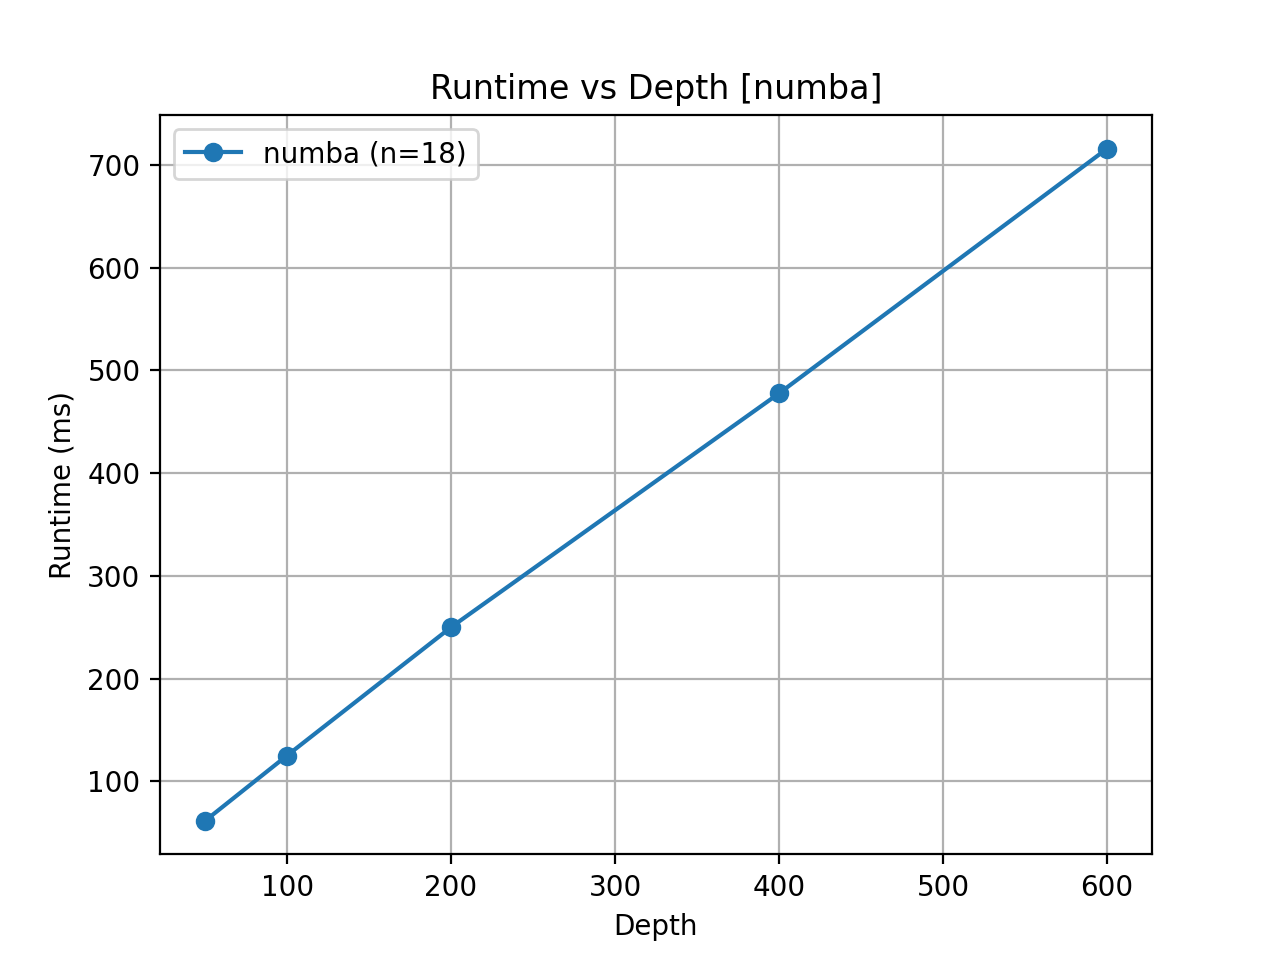
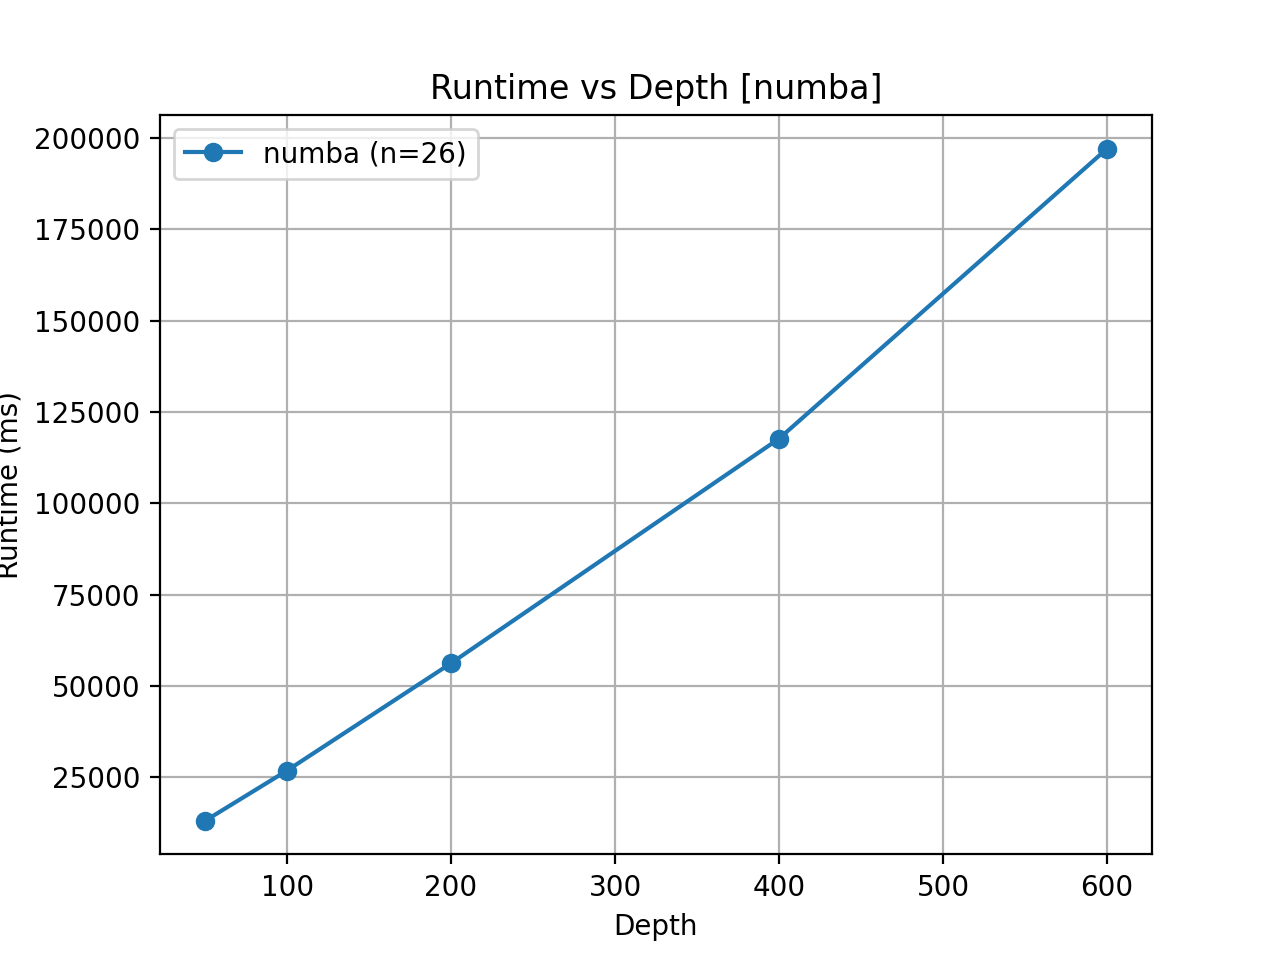
Final experiments

diff --git a/python/plot_results.py b/python/plot_results.py
@@ -31,7 +31,7 @@ def median_by_key(rows, key_fields):
     return agg
 
 def plot_runtime_vs_qubits(rows, tag):
-    pts = [r for r in rows if r["depth"] == 100]
+    pts = [r for r in rows if r["depth"] == 200]
     if not pts: return
     by_backend = defaultdict(list)
     for r in pts:
@@ -123,7 +123,7 @@ def plot_depth_compare_all():
             continue
         with open(p, "r") as f:
             r = csv.DictReader(f)
-            pts = [(int(row["depth"]), float(row["wall_ms"])) for row in r]
+            pts = [(int(row["depth"]), float(row["wall_ms"])) for row in r if row["qubits"] == '26']
         pts = sorted(pts)
         if pts:
             series[be] = pts
